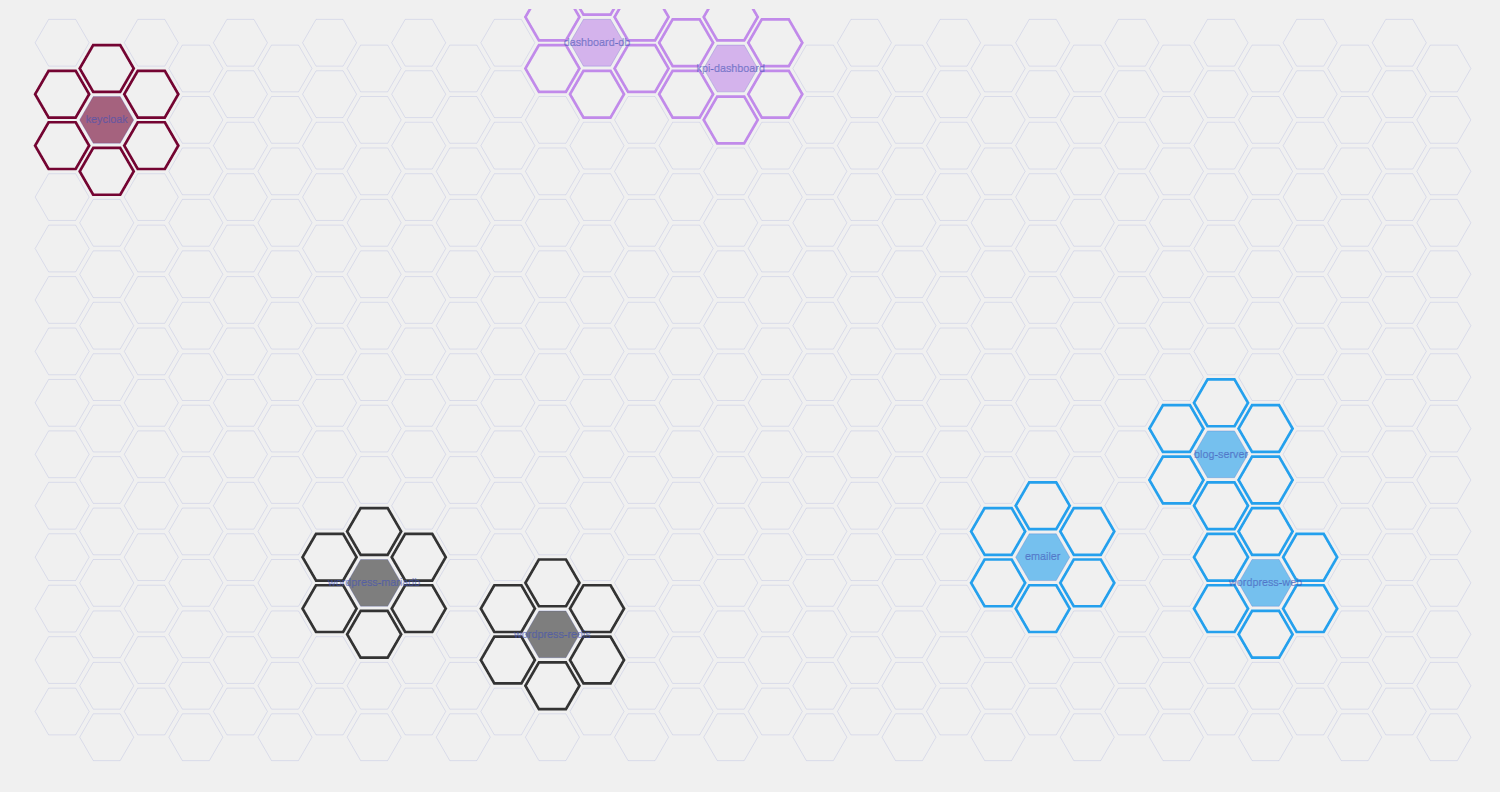
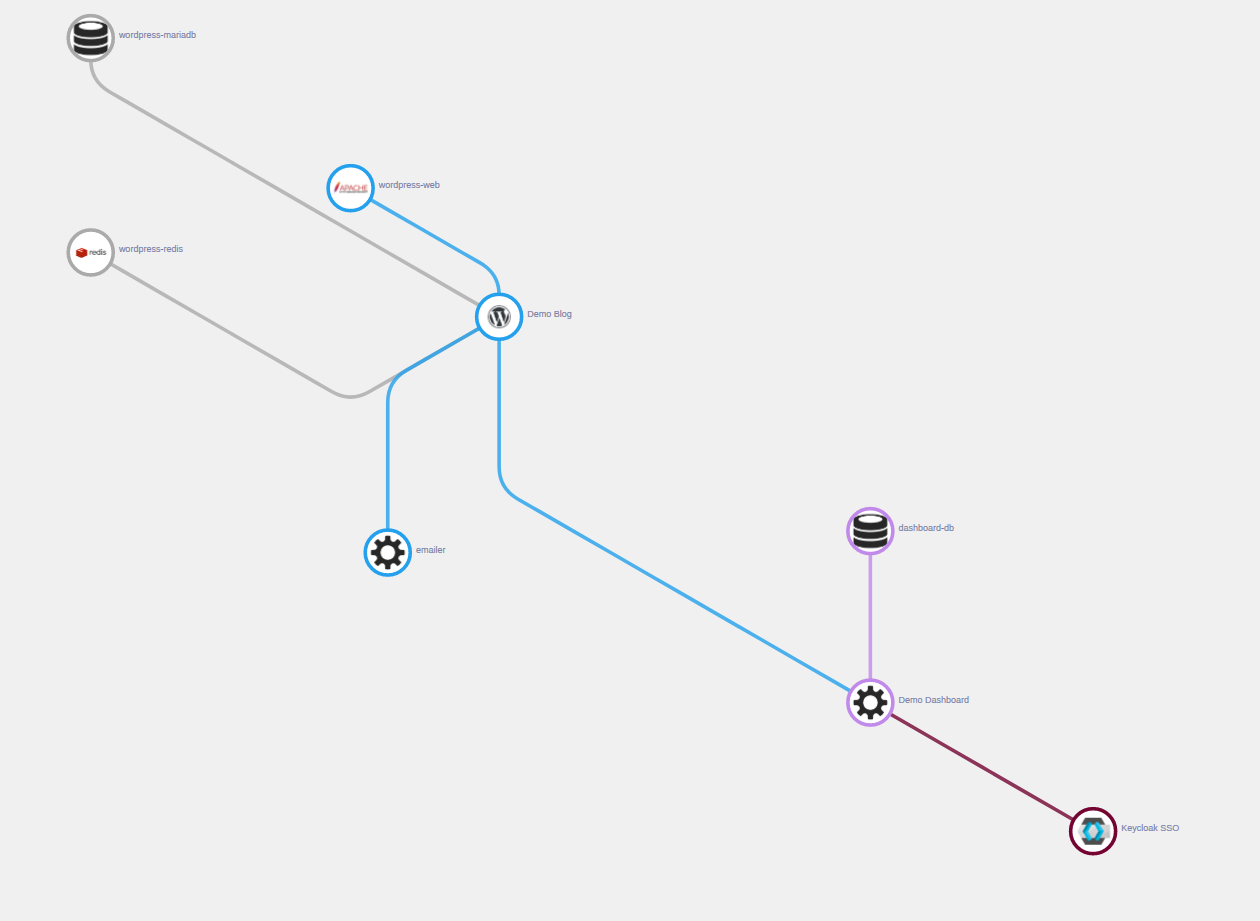
showing images in map

diff --git a/src/main/app/src/App.js b/src/main/app/src/App.js
@@ -1,10 +1,11 @@
 import React, {Component} from 'react';
 import './App.css';
-import {HexGrid, Layout, Text, Pattern, Hex, GridGenerator, HexUtils} from 'react-hexgrid';
+import {HexGrid, Layout, Text, Hex, GridGenerator, HexUtils} from 'react-hexgrid';
 import Nexagon from "./Nexagon";
 import NPath from "./NPath";
 import PathFinder from "./PathFinder";
 import TilePath from "./TilePath";
+import NPattern from "./NPattern";
 
 class App extends Component {
 
@@ -38,7 +39,7 @@ class App extends Component {
             return <div>Hold tight while items are being fetched...</div>;
         }
 
-        const hexagons = GridGenerator.orientedRectangle(map.maxQ + 5, 2 * map.maxR);
+        const hexagons = GridGenerator.orientedRectangle(map.maxQ + 10, 3 * map.maxR);
 
         let byId = {};
         let occupied = [];
@@ -54,26 +55,10 @@ class App extends Component {
                 <HexGrid viewBox="600 -50 1000 1600" width="100%" height={1200}>
                     <Layout size={{x: 40, y: 40}} flat={true} spacing={1.1}>
 
-                        {hexagons.map(hex => <Nexagon q={hex.q} r={hex.r} s={hex.s} className="other"></Nexagon>)}
                         {/*
                         {hexagons.map(hex => <Nexagon q={hex.q} r={hex.r} s={hex.s} className="other"><Text>{hex.q + "," + hex.r}</Text></Nexagon>)}
-
+                        {hexagons.map(hex => <Nexagon q={hex.q} r={hex.r} s={hex.s} className="other"></Nexagon>)}
                         */}
-
-                        {/*
-                        {map.items.map(vertex =>
-
-                            HexUtils.neighbours(vertex.hex).map(neigh =>
-                                <Nexagon q={neigh.q} r={neigh.r} s={neigh.s} cellStyle={{
-                                    stroke: vertex.color,
-                                    fill: "transparent",
-                                    strokeWidth: 4
-                                }}></Nexagon>
-                            )
-                        )}
-                        */}
-
-
 
                         {
                             map.items.map(vertex => {
@@ -86,29 +71,35 @@ class App extends Component {
                                 pathFinder.findPaths(paths, target);
                                 let path = pathFinder.sortAndFilterPaths(paths);
                                 return (<NPath tilePath={path} fill={vertex.color}/>);
-
-                                {/*
-                                    return paths.map(path => {
-                                    return (
-                                        <NPath tiles={path.tiles} />
-                                    );
-                                });
-                                */}
                             });
                             }
                         )}
 
-                        {
-                            /* todo text-anchor is hardcoded */
-                            map.items.map(vertex =>
+                        {map.items.map(vertex => {
 
-                            <Nexagon key={vertex.landscapeItem.identifier} q={vertex.hex.q} r={vertex.hex.r}
-                                     s={vertex.hex.s} className={"service"} cellStyle={{fill: vertex.color}}>"
-                                <Text x={50} textAnchor={'left'}>{vertex.name}</Text>
-                            </Nexagon>
-                        )}
+                                let fill = '';
+                                if (vertex.image)
+                                    fill = btoa(vertex.id);
+
+                                return (
+
+                                    <Nexagon key={vertex.landscapeItem.identifier} q={vertex.hex.q} r={vertex.hex.r}
+                                                 s={vertex.hex.s} className={"service"} fill={fill} cellStyle={{stroke: vertex.color}}>"
+                                    <text x="50" text-anchor="left">{vertex.name}</text>
+                                    </Nexagon>
+                                );
+                        })
+                        }
 
                     </Layout>
+                    {map.items.map(vertex => {
+                        if (vertex.image.length > 0) {
+                            let fill = vertex.image;
+                            let id = btoa(vertex.id);
+                            let size = {x:30, y:30};
+                            return (<NPattern id={id} link={fill} size={ size }></NPattern>);
+                        }
+                    })}
                 </HexGrid>
             </div>
         );

diff --git a/src/main/app/src/NPattern.js b/src/main/app/src/NPattern.js
@@ -1,0 +1,26 @@
+import React, { Component } from 'react';
+import PropTypes from 'prop-types';
+
+
+class Pattern extends Component {
+    static propTypes = {
+        id: PropTypes.string.isRequired,
+        link: PropTypes.string.isRequired,
+        size: PropTypes.object
+    };
+
+    render() {
+        const { id, link, size } = this.props;
+
+        return (
+            <defs>
+                <pattern id={id} patternUnits="objectBoundingBox" x={0} y={0} width={size.x} height={size.y}>
+                    <rect height="100" width="100" fill="white"/>
+                    <image xlinkHref={link} x={10} y={10} width={size.x*2} height={size.y*2} />
+                </pattern>
+            </defs>
+        );
+    }
+}
+
+export default Pattern;

diff --git a/src/main/app/src/Nexagon.js b/src/main/app/src/Nexagon.js
@@ -61,7 +61,8 @@ class Nexagon extends Component {
                 onClick={e => this.onClick(e)}
             >
                 <g className="hexagon">
-                    <polygon points={points} fill={fillId} style={cellStyle}/>
+                    <circle cx="0" cy="0" r="40" fill={fillId} style={cellStyle}/>
+                    {/*<polygon points={points} fill={fillId} style={cellStyle}/>*/}
                     {this.props.children}
                 </g>
             </g>

diff --git a/src/main/app/src/index.css b/src/main/app/src/index.css
@@ -41,6 +41,11 @@ svg g polygon {
   stroke-width: 0.2;
   transition: fill-opacity .2s;
 }
+
+svg g circle {
+  stroke-width: 0.4em;
+}
+
 svg g text {
   fill-opacity: 0.4;
   transition: fill-opacity .2s;
